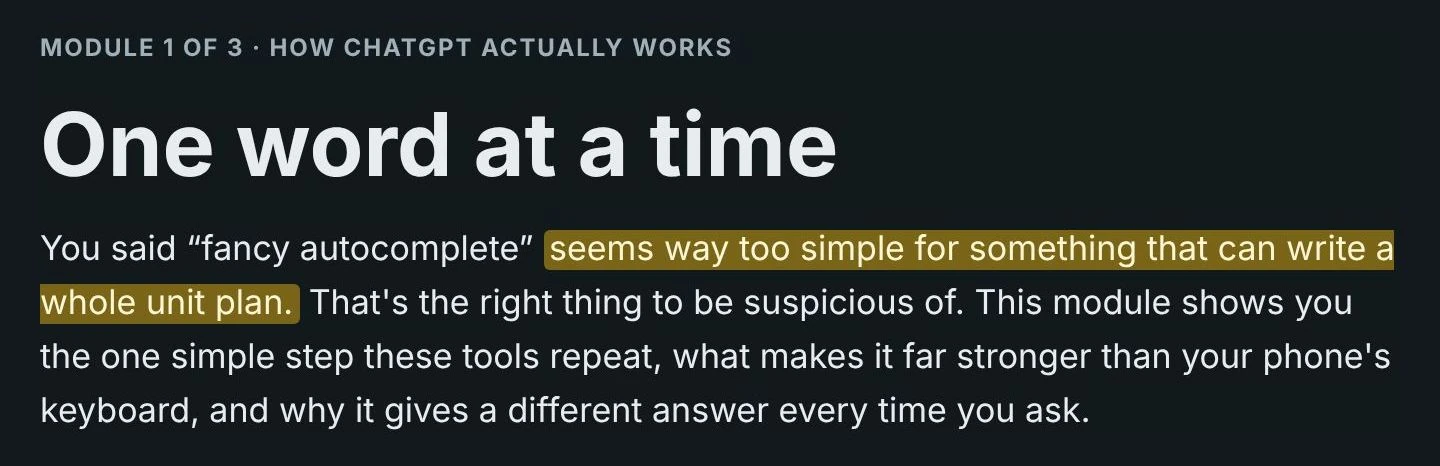
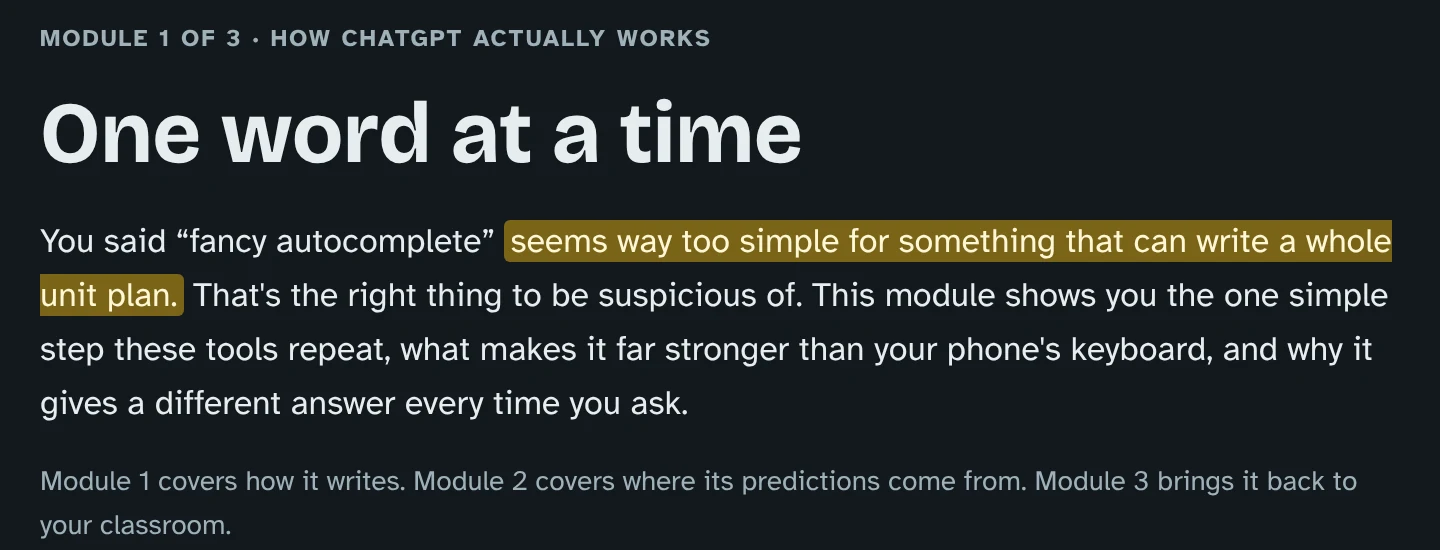
Chiron replay: fading Module 1 opening, clearer teacher opener
The Module 1 opening is recaptured taller from the module's HTML and its
frame fades into the paper, so the page reads as continuing past the
crop. The teacher's /teachme now says why she's asking, and Chiron's
reply in the build slide drops the flattery.

Claude-Session: https://claude.ai/code/session_01LvZ3gHBdktRdPitHGw6W9i

Changed region(s): [[0.0, 0.1803, 0.9688, 0.8112], [0.0312, 0.8412, 0.9375, 0.9914], [0.0312, 0.03, 0.5312, 0.1202]]

diff --git a/index.html b/index.html
@@ -629,6 +629,14 @@
   .rp-artifact-bar span{ white-space:nowrap; }
   .rp-artifact img{ width:100%; height:auto; }
   .rp-artifact.wide{ width:100%; max-width:790px; align-self:center; }
+  /* a crop of a longer page: the bottom fades into the paper so the module
+     reads as carrying on past the frame. Narrower than .wide so the intro
+     and a ghost of the next paragraph fit the 540px window */
+  .rp-artifact.fade{
+    max-width:700px; border-bottom:0; border-radius:10px 10px 0 0;
+    -webkit-mask-image:linear-gradient(to bottom, #000 calc(100% - 56px), transparent);
+            mask-image:linear-gradient(to bottom, #000 calc(100% - 56px), transparent);
+  }
 
   /* two-column slides */
   .rp-split{ display:grid; grid-template-columns:minmax(0,1fr) minmax(0,1.25fr); gap:20px; align-items:center; }
@@ -1253,7 +1261,7 @@
           type: "chat",
           // `think` notes are annotations written for the portfolio, not Chiron's literal output
           messages: [
-            { who: "teacher", text: "**/teachme** how large language models like ChatGPT actually work. I teach 7th grade science." },
+            { who: "teacher", text: "**/teachme** I use ChatGPT to help plan lessons for my 7th graders, but I don’t really know how it works." },
             { who: "chiron", think: "Don’t explain yet. Find out how she thinks it works, starting from a failure she’s probably seen.",
               text: "A lesson plan cites “Martinez & Cole (2019).” The study doesn’t exist. **Where did it come from?**" },
             { who: "teacher", text: "I think ==it searches a big database== and mashed real studies together." },
@@ -1269,11 +1277,11 @@
           messages: [
             { who: "teacher", text: "“Fancy autocomplete” seems ==way too simple to write a whole unit plan.==" },
             { who: "chiron", think: "She thinks it rewords stored facts, and she just named what she can’t explain. That’s the wall. Stop asking and build.",
-              text: "**You just put your finger on the real question.** Module 1 starts right there.",
+              text: "**Hold onto that doubt.** Module 1 starts from it.",
               status: "Building Module 1 around “too simple”" },
           ],
           artifact: {
-            src: "assets/chiron-replay-opening.webp", width: 1440, height: 466, wide: true,
+            src: "assets/chiron-replay-opening.webp", width: 1440, height: 550, wide: true, fade: true,
             title: "Module 1 · One word at a time", note: "opens on her own words, highlighted",
             alt: "Module 1 opening, quoting the teacher's doubt back to her with it highlighted",
           },
@@ -1719,7 +1727,7 @@
   }
 
   function rpArtifact(a){
-    return `<figure class="rp-artifact${a.wide ? ' wide' : ''}">
+    return `<figure class="rp-artifact${a.wide ? ' wide' : ''}${a.fade ? ' fade' : ''}">
       <figcaption class="rp-artifact-bar"><span>${esc(a.title)}</span><span>${esc(a.note)}</span></figcaption>
       <img src="${a.src}" alt="${esc(a.alt)}" width="${a.width}" height="${a.height}">
     </figure>`;

diff --git a/CLAUDE.md b/CLAUDE.md
@@ -88,8 +88,9 @@ the slide copy, `**text**` is bold and `==text==` gets the soft highlighter.
 - Each slide plays in: `RP_ENTER` in the script lists which pieces enter and when. Chat slides
   run on a conversation's rhythm (teacher fast, Chiron after a longer beat: thinking, then
   reply). The first slide waits until the card is on screen; reduced motion shows it all at once.
-- Images are `assets/chiron-replay-*.webp`. The knowledge check was recaptured at 2x from the
-  module's own HTML in its dark scheme.
+- Images are `assets/chiron-replay-*.webp`. The knowledge check and the Module 1 opening were
+  recaptured at 2x from the module's own HTML in its dark scheme. The opening is a crop of a
+  longer page, so its frame (`fade: true` in the data) fades out at the bottom.
 - The scribble track chains copies of its 6-stroke Lottie when a slideshow has more than 6
   slides; `buildExtendedScribble` handles it.
 - The employer pages still carry the older Chiron screenshot slideshow.
